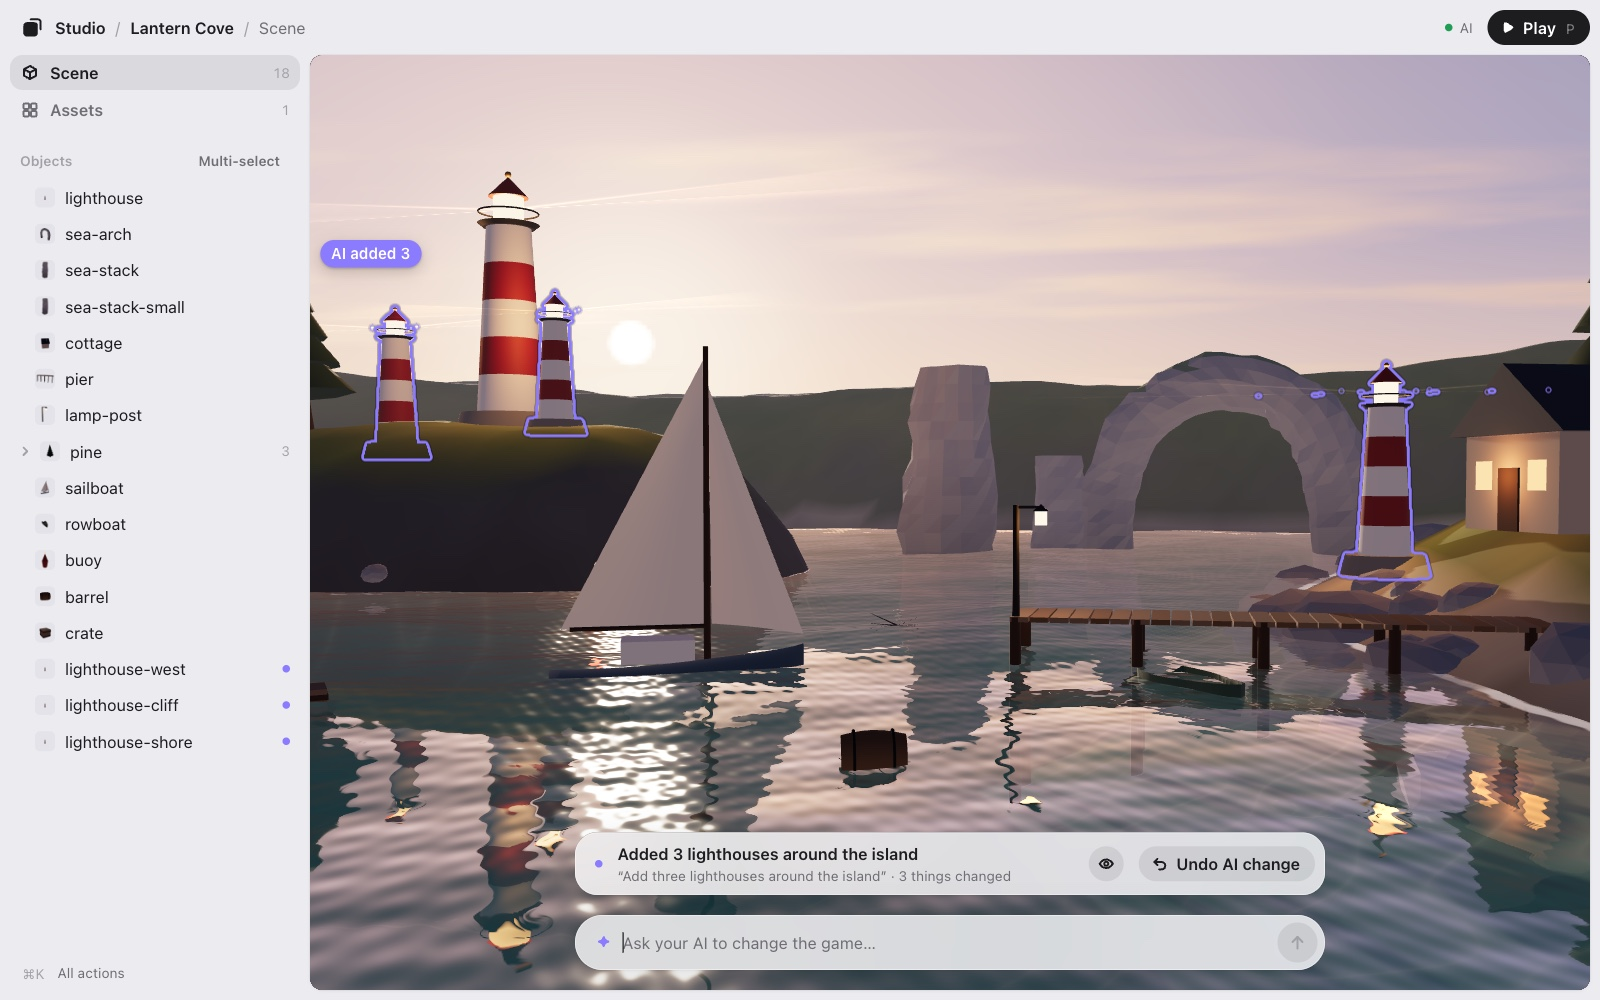
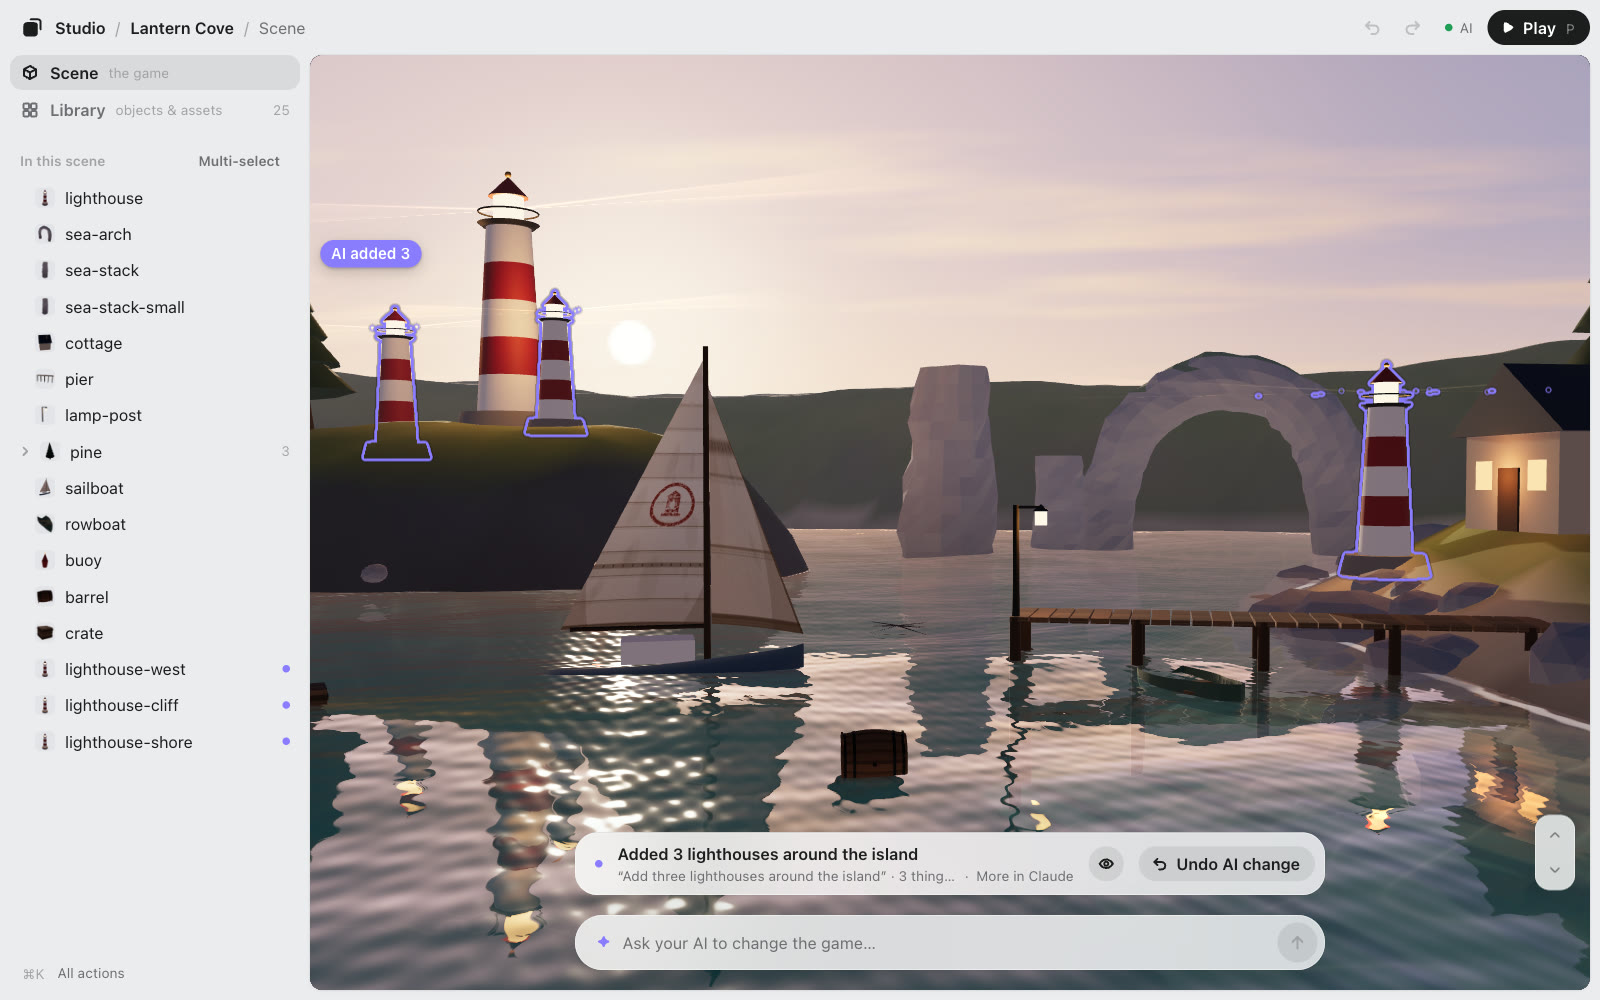
Game Studio 0.1.12: Game Studio 0.1.12: the README's moving picture and still show the current editor

diff --git a/skills/arrange/bin/studio-ui/studio-edit.js b/skills/arrange/bin/studio-ui/studio-edit.js
@@ -1,4 +1,4 @@
-/* KUMODeck Game Studio 0.1.11 — MIT License — built file, edit src/ instead */
+/* KUMODeck Game Studio 0.1.12 — MIT License — built file, edit src/ instead */
 (() => {
 const __defs = [];
 const __cache = [];

diff --git a/skills/arrange/bin/studio-ui/studio-shell.js b/skills/arrange/bin/studio-ui/studio-shell.js
@@ -1,4 +1,4 @@
-/* KUMODeck Game Studio 0.1.11 — MIT License — built file, edit src/ instead */
+/* KUMODeck Game Studio 0.1.12 — MIT License — built file, edit src/ instead */
 (() => {
 const __defs = [];
 const __cache = [];

diff --git a/docs/media/README.md b/docs/media/README.md
@@ -1,10 +1,10 @@
 # media
 
-Created: 2026-10-17
+Created: 2026-10-17 (retaken on v0.1.11's screens on 2026-10-21)
 Purpose: the pictures at the top of the README. Real screens of the editor (headless Chrome), nothing drawn over
 them except the pointer.
 
-- `studio-loop.webp` — the moving picture at the top of the README (11.8 s, loops, 880×496, 12 fps, 2.98 MB): type
-  “Add three lighthouses around the island,” your AI adds them, only the new ones glow violet, Undo AI change. The
-  AI's wait plays faster and says “Sped up.”
+- `studio-loop.webp` — the moving picture at the top of the README (14.6 s, loops, 880×496, 10 fps, 2.93 MB): type
+  “Add three lighthouses around the island,” your AI adds them, only the new ones glow violet, Undo AI change, and back
+  to the first picture. The AI's wait plays faster and says “Sped up.”
 - `studio.jpg` — a still of the same moment (1600×1000), for places that don't play animations.
